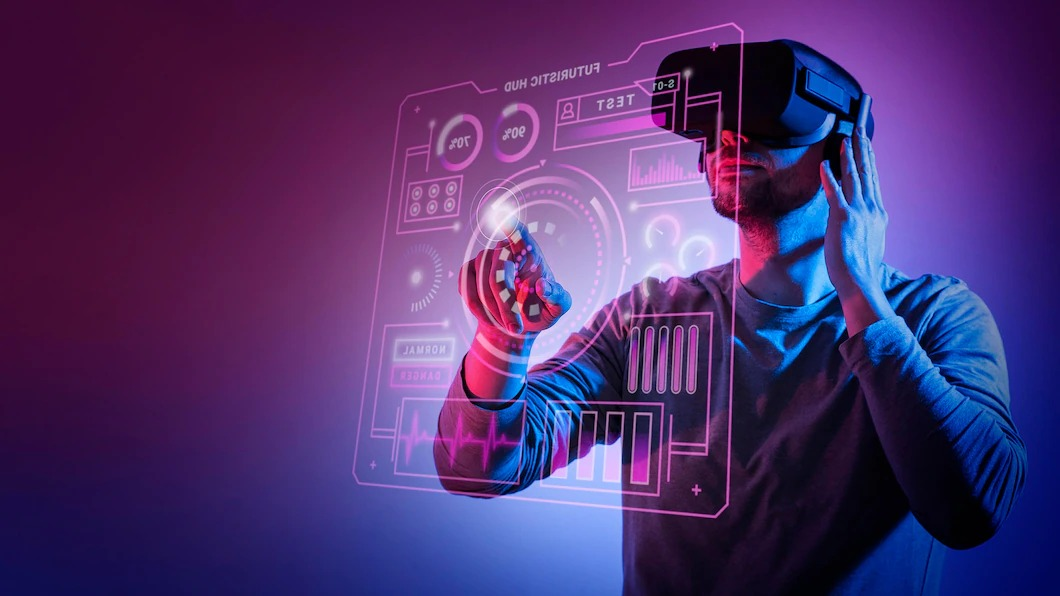
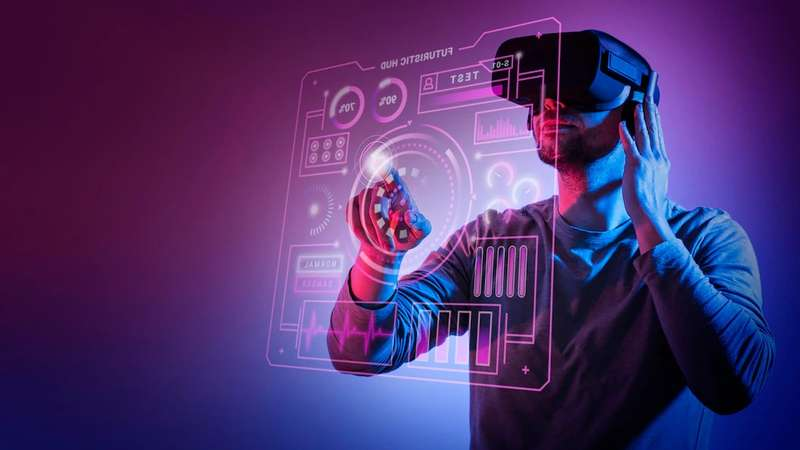
redimensionando imagens dos posts

diff --git a/posts/models.py b/posts/models.py
@@ -2,6 +2,9 @@ from django.db import models
 from categorias.models import Categoria
 from django.contrib.auth.models import User
 from django.utils import timezone
+from PIL import Image
+from django.conf import settings
+import os
 
 class Post(models.Model):
     titulo_post = models.CharField(max_length=255, verbose_name='Título')
@@ -15,3 +18,23 @@ class Post(models.Model):
 
     def __str__(self):
         return self.titulo_post
+    
+
+    def save(self, *args, **kwargs):
+        super().save(*args, **kwargs)
+        self.redimensionar_img(self.imagem_post.name, 800)
+
+
+    @staticmethod
+    def redimensionar_img(nome_img, nova_largura): # executa ao salvar a imagem
+        caminho_img = os.path.join(settings.MEDIA_ROOT, nome_img)
+        img = Image.open(caminho_img) 
+        largura, altura = img.size
+        nova_altura = round((nova_largura * altura) / largura)
+
+        if largura <= nova_largura:
+            img.close()
+            return
+
+        nova_img = img.resize((nova_largura, nova_altura), Image.ANTIALIAS)        
+        nova_img.save(caminho_img, optimize=True, quality=60)

diff --git a/comentarios/migrations/0008_alter_comentario_data_comentario.py b/comentarios/migrations/0008_alter_comentario_data_comentario.py
@@ -1,0 +1,19 @@
+# Generated by Django 4.1.4 on 2022-12-19 11:35
+
+import datetime
+from django.db import migrations, models
+
+
+class Migration(migrations.Migration):
+
+    dependencies = [
+        ('comentarios', '0007_alter_comentario_data_comentario'),
+    ]
+
+    operations = [
+        migrations.AlterField(
+            model_name='comentario',
+            name='data_comentario',
+            field=models.DateField(default=datetime.datetime(2022, 12, 19, 11, 35, 46, 247537, tzinfo=datetime.timezone.utc), verbose_name='Data'),
+        ),
+    ]

diff --git a/posts/migrations/0009_alter_post_data_post.py b/posts/migrations/0009_alter_post_data_post.py
@@ -1,0 +1,19 @@
+# Generated by Django 4.1.4 on 2022-12-19 11:35
+
+import datetime
+from django.db import migrations, models
+
+
+class Migration(migrations.Migration):
+
+    dependencies = [
+        ('posts', '0008_alter_post_data_post'),
+    ]
+
+    operations = [
+        migrations.AlterField(
+            model_name='post',
+            name='data_post',
+            field=models.DateTimeField(default=datetime.datetime(2022, 12, 19, 11, 35, 46, 246419, tzinfo=datetime.timezone.utc), verbose_name='Data postada'),
+        ),
+    ]
